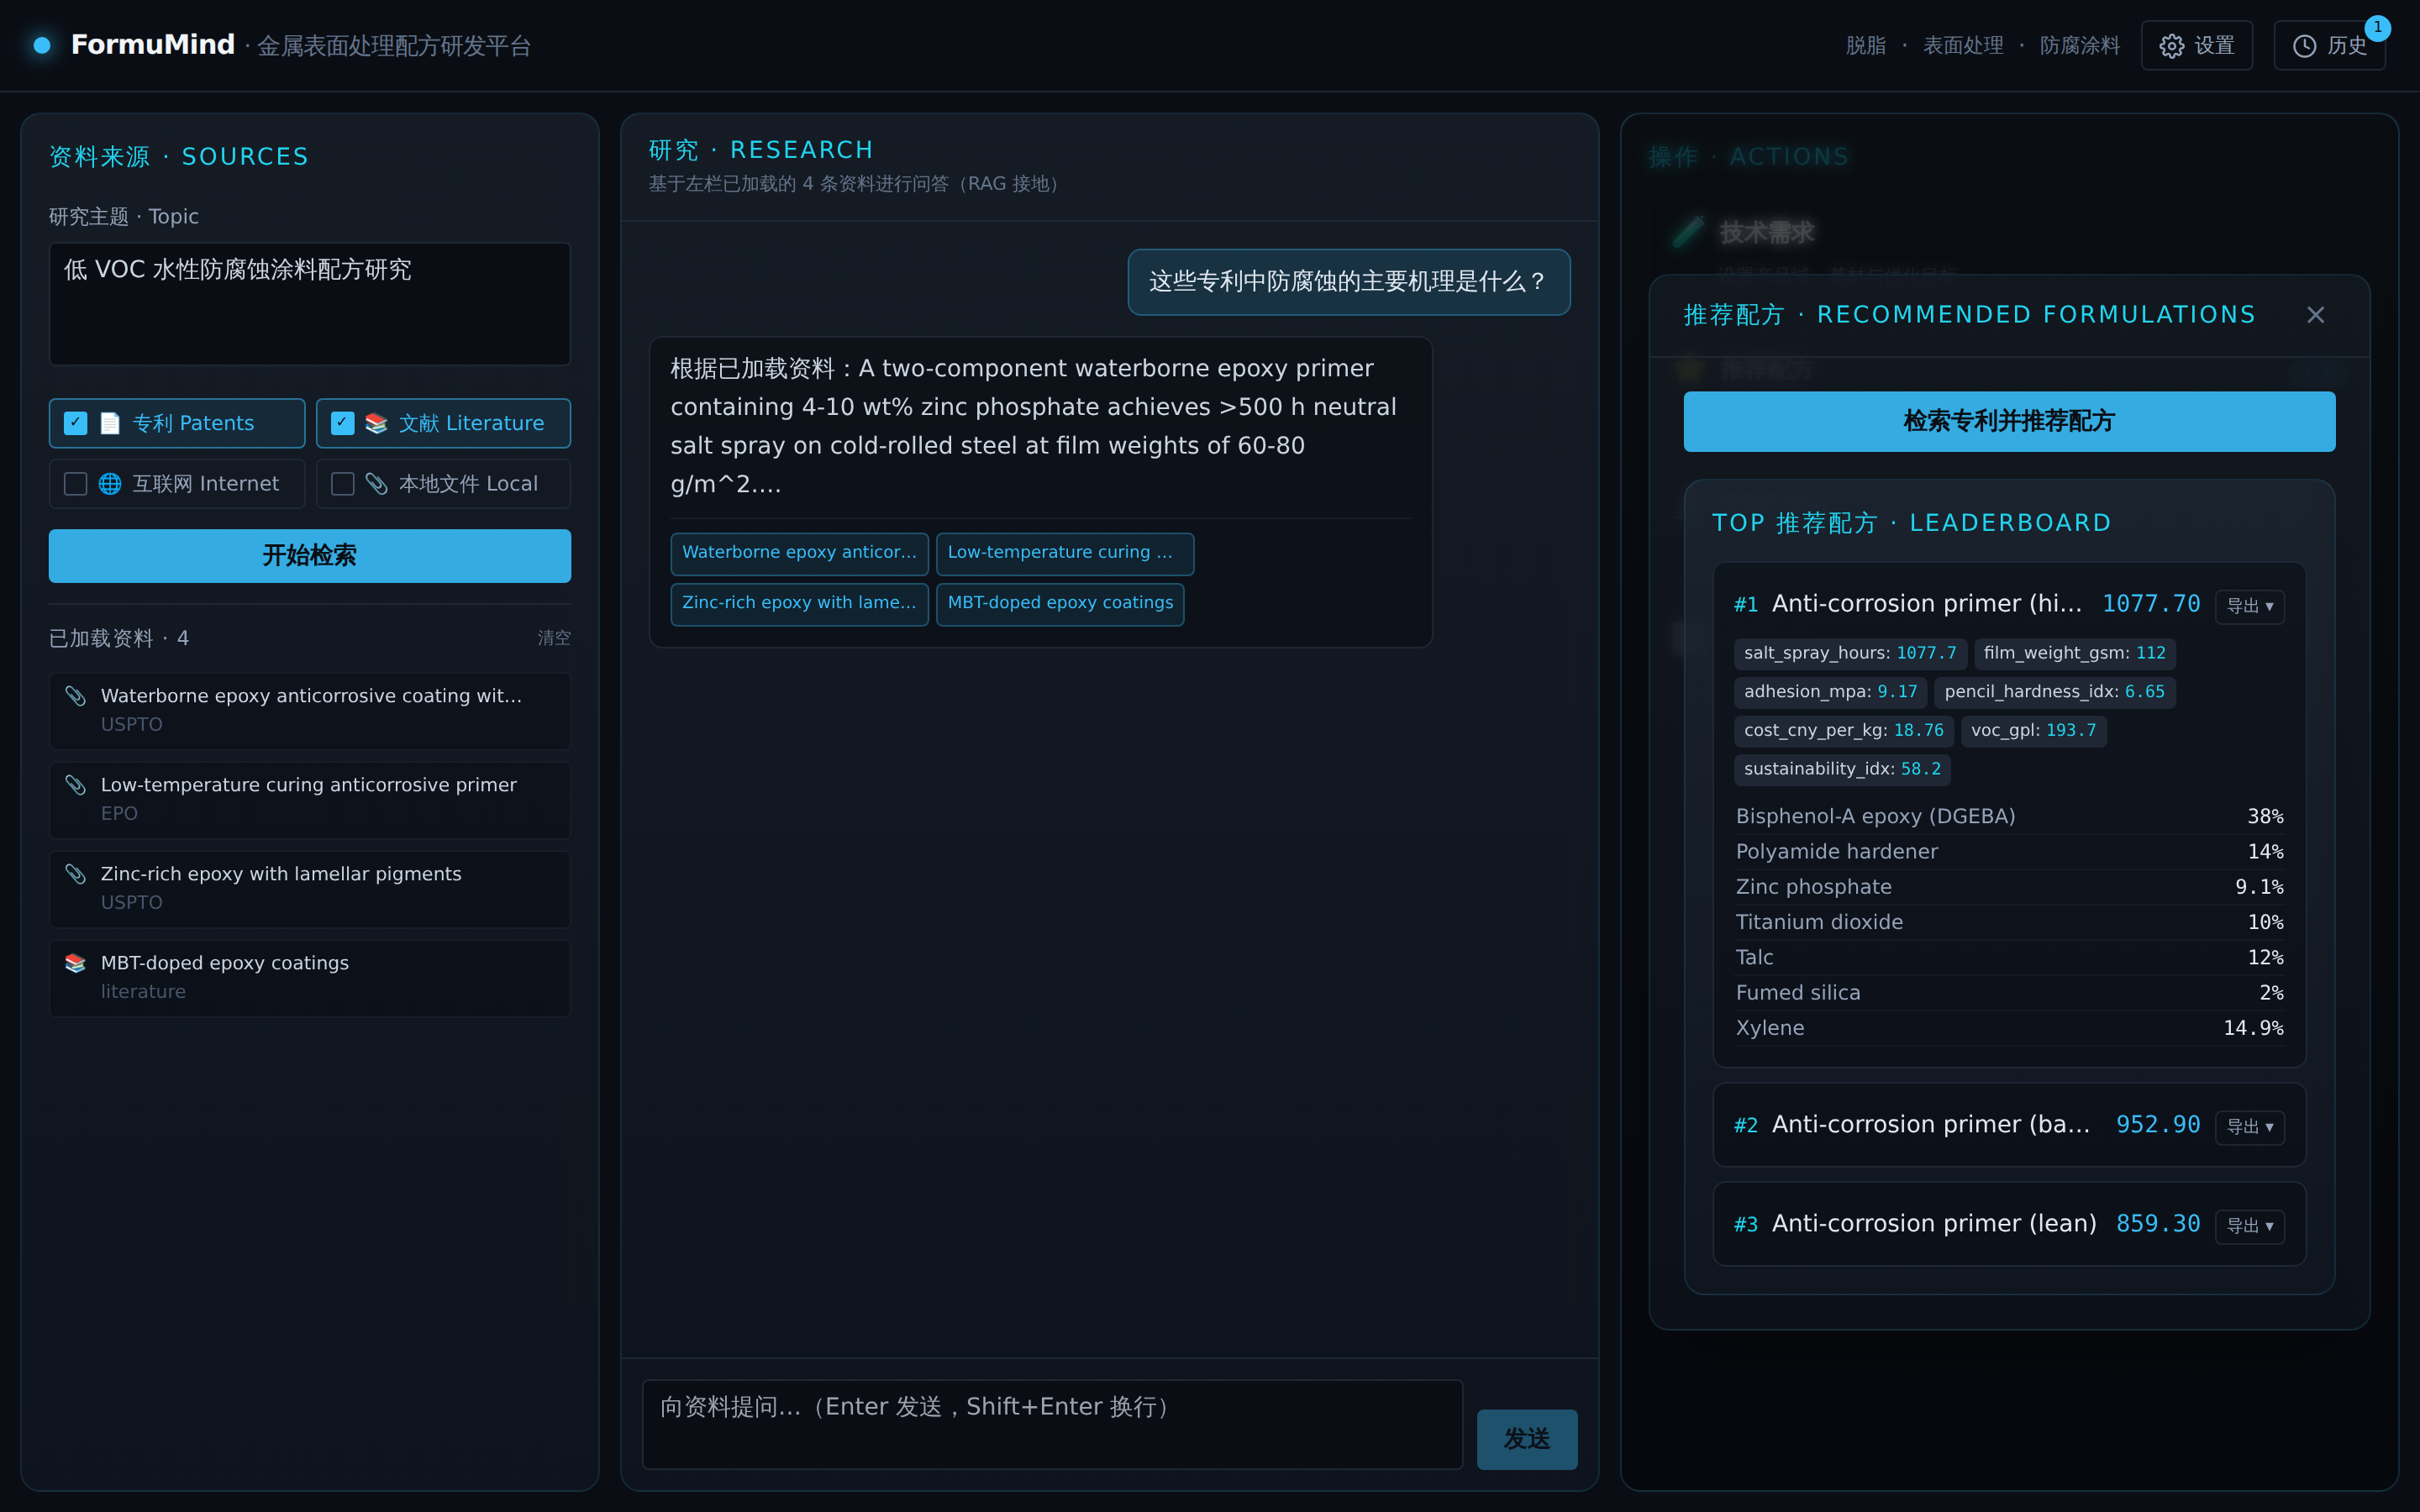
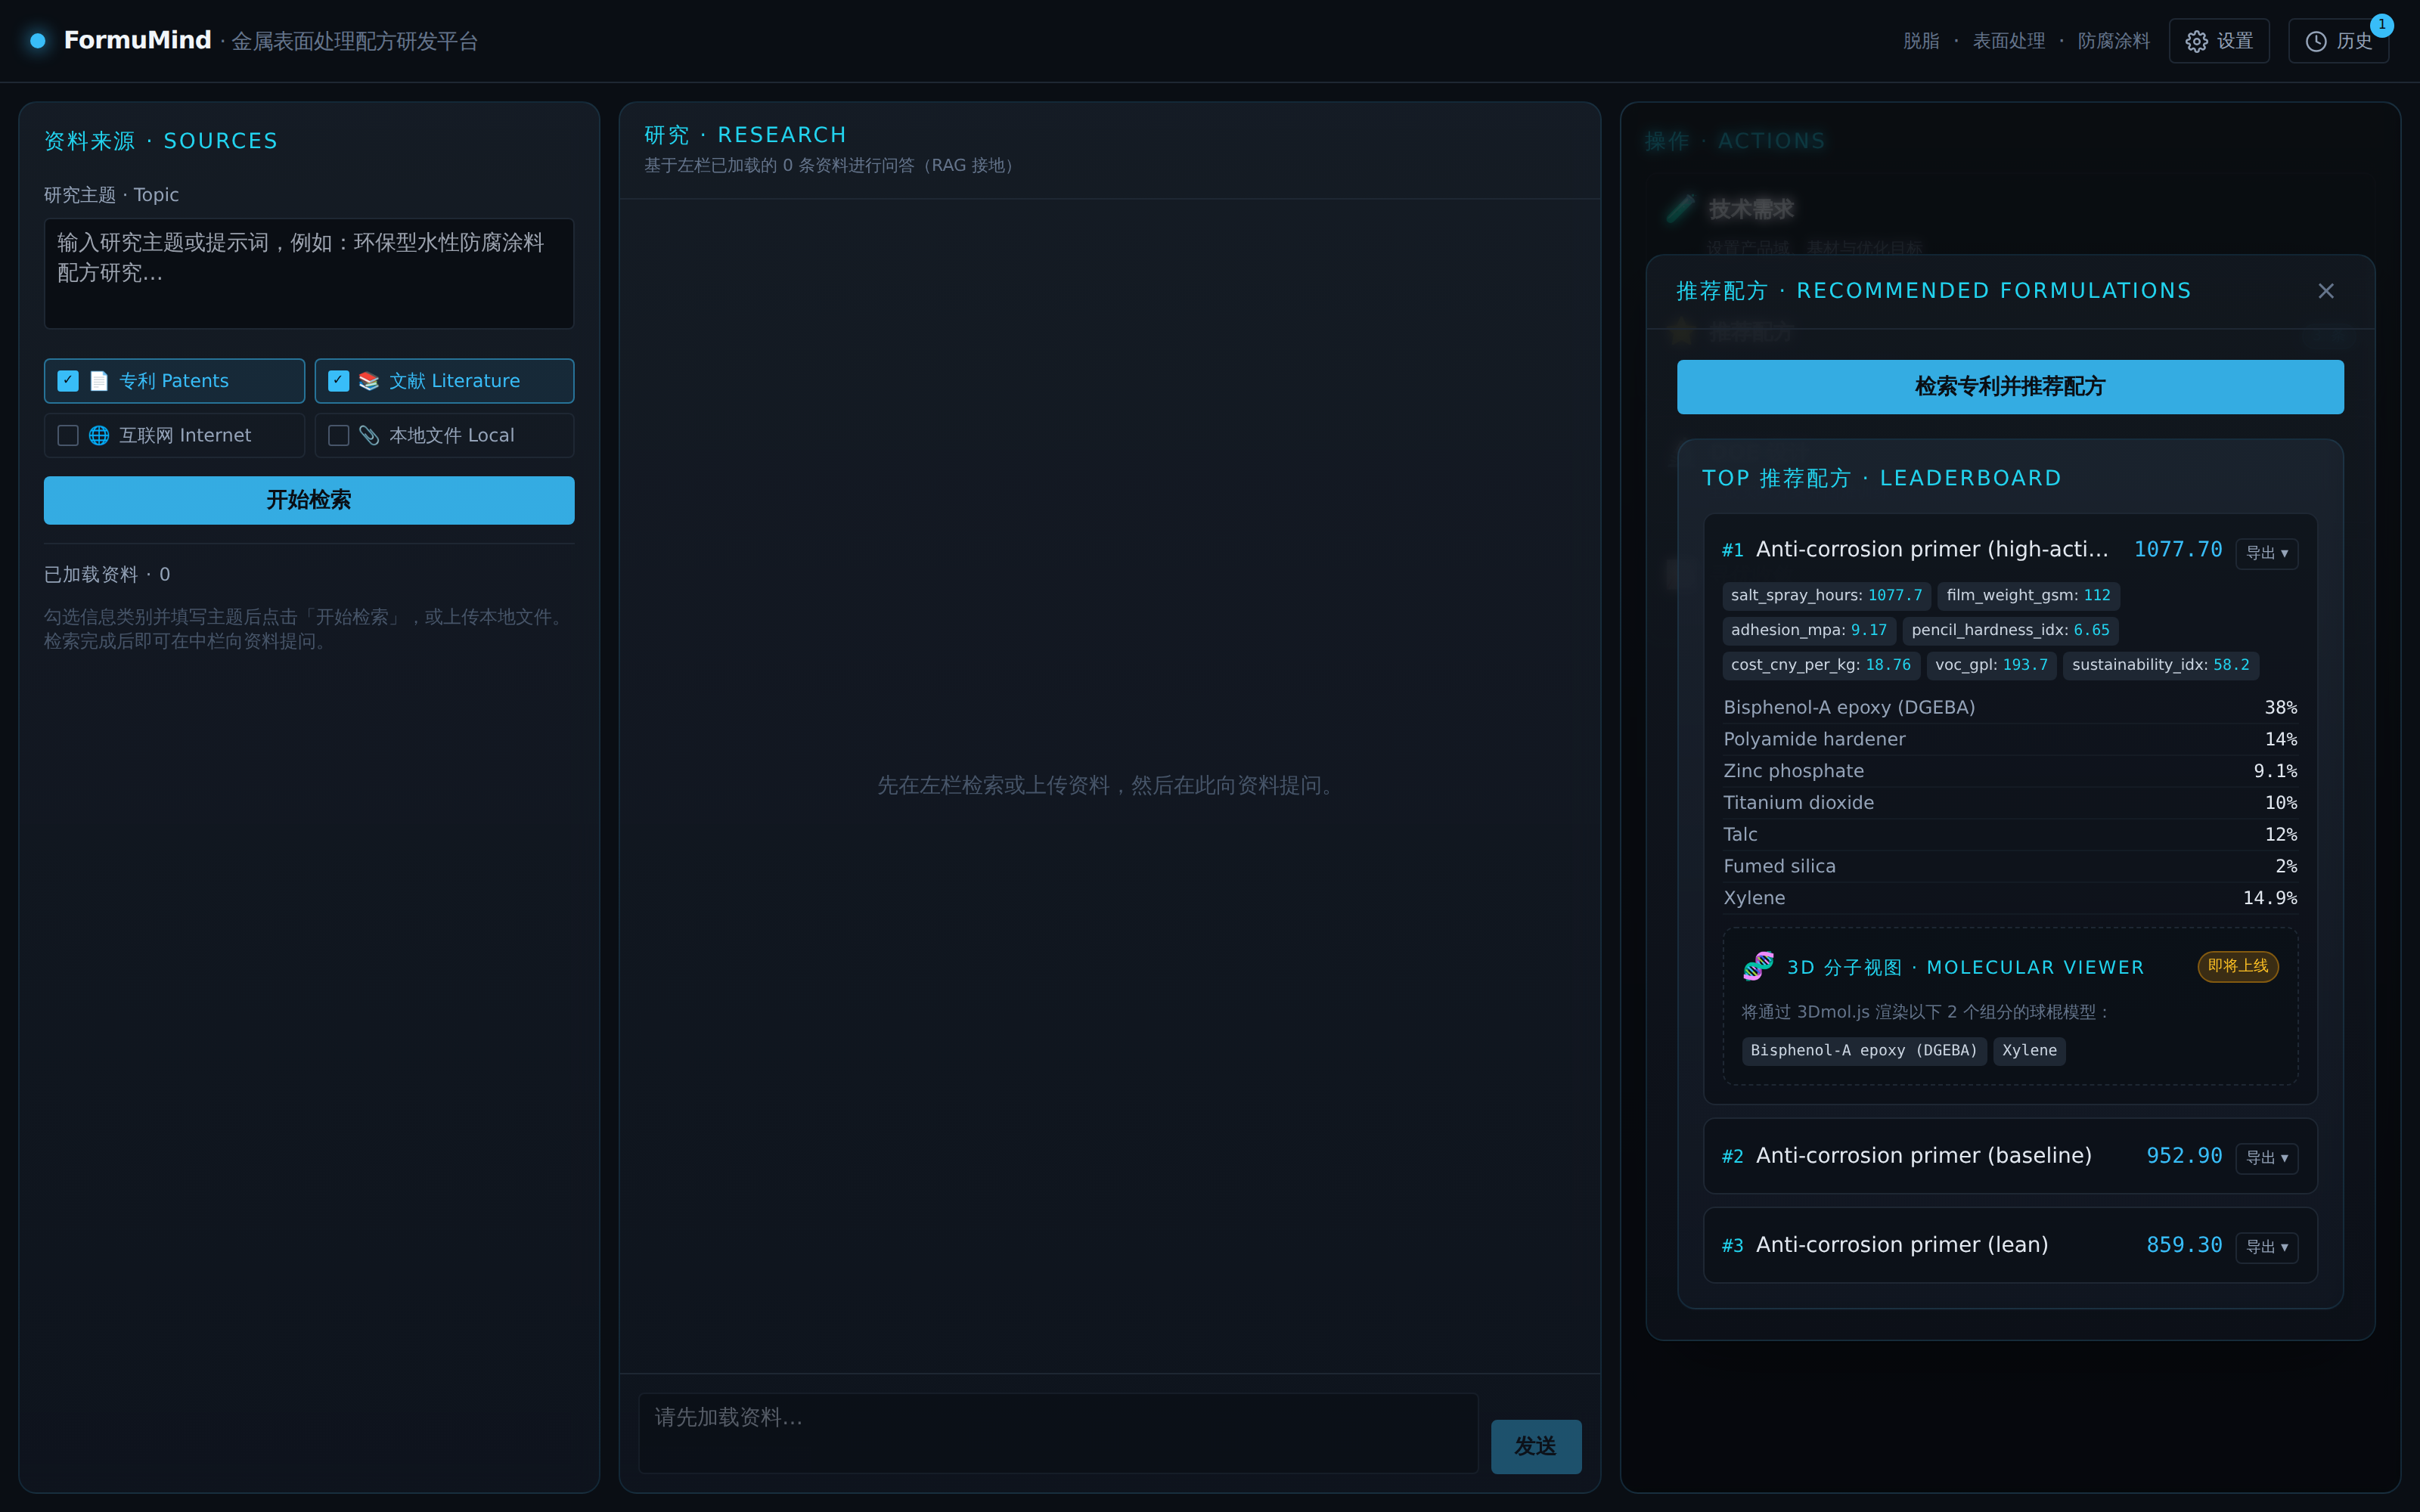
docs: document auto-detected engines + 3D molecular viewer (EN/CN), refresh recommend screenshot
- USER_GUIDE.md / 使用指南.md: new §5.8 (optional intelligence engines:
  Summit/Optuna tiering, ChemCrow/paper-qa routing, PubChem enrichment,
  thermo VOC) and §5.9 (reserved 3D molecular viewer); updated adapter table,
  cost/VOC note, config table (USE_CHEMCROW / ENRICH_COMPOUNDS), enabling-engines
  extras, 3D FAQ, and footer.
- QUICKSTART.md / 快速入门.md: recommend step now notes the 3D molecular-viewer
  panel; added an auto-detected-engines note to next steps.
- Regenerated docs/images/05-recommend.png showing the new MolViewer placeholder.

https://claude.ai/code/session_01UU7xK54833WZZhCQ2RY8mj

diff --git a/docs/USER_GUIDE.md b/docs/USER_GUIDE.md
@@ -72,8 +72,11 @@ it is installed.
 | Internet search | `duckduckgo-search` | (offline returns no extra hits) |
 | File ingestion | `markitdown` (PDF/DOCX/XLSX/PPTX/HTML/images…) → `pypdf`/`python-docx` | plain-text decoder |
 | RAG store | OpenNotebook pipeline | in-memory TF-IDF index |
-| Property prediction | RDKit + DeepChem/ChemBERTa | transparent empirical surrogate |
-| Optimization | Summit (Bayesian/TSEMO) | numpy UCB Bayesian optimizer |
+| Grounded Q&A | ChemCrow agent (chemistry questions) · paper-qa (semantic synthesis) | TF-IDF re-rank → configured LLM → snippet |
+| Property prediction | RDKit + DeepChem/ChemBERTa · MoLFormer (reserved) | transparent empirical surrogate |
+| VOC / density | `thermo` mass-weighted density | nominal 1.3 kg/L assumption |
+| Compound data | PubChemPy (SMILES / molar mass) | hand-curated raw-material library |
+| Optimization | Summit (Bayesian/TSEMO) → Optuna (NSGA-II/TPE, CPU) | numpy UCB Bayesian optimizer |
 | Stoichiometry | ChemFormula / RDKit | self-contained formula parser |
 | Cure / MD simulation | HTPolyNet · LUNAR · LAMMPS (Docker) | analytic approximation |
 
@@ -161,7 +164,11 @@ The platform will:
 - synthesize a mechanism explanation and research conversation.
 
 **Result**: the center shows mechanism + evidence + chat; the leaderboard shows
-the 3 recommended formulations.
+the 3 recommended formulations. Expand a card to see its ingredient table,
+predicted metrics with uncertainty, and the **3D molecular-viewer panel**
+(see §5.9).
+
+![Recommend · leaderboard with molecular viewer](./images/05-recommend.png)
 
 ### Step ② — run the optimization loop
 
@@ -223,7 +230,8 @@ All 26 raw materials in the knowledge base carry `price_cny_per_kg` and
 `voc_contrib` (volatile fraction, 0–1). Every prediction computes:
 
 - `cost_cny_per_kg` — mass-fraction-weighted formulation cost;
-- `voc_gpl` — VOC content (g/L, assuming density ~1.3 kg/L);
+- `voc_gpl` — VOC content (g/L); density defaults to ~1.3 kg/L but is computed
+  from a real mass-weighted mixture density when the `thermo` library is present;
 - `sustainability_idx` — sustainability index (0–100, penalizing high VOC and cost).
 
 When a formulation's VOC exceeds the requirement's `voc_limit_gpl`, the card
@@ -294,6 +302,38 @@ relevance into the left-column source list. The center-column chat then answers
 questions **grounded in those sources**: a TF-IDF re-rank selects the most
 relevant evidence, the LLM composes an answer, and the citations used are shown
 as chips under each reply.
+
+### 5.8 Optional intelligence engines (auto-detected)
+
+Beyond the LLM providers, FormuMind layers several specialist engines on top of
+the built-in fallbacks. Each is **auto-detected**: install its library and the
+adapter switches over with no code change; absent, the platform keeps using the
+deterministic offline path, so behaviour never breaks.
+
+- **Optimizer tiering** — the closed-loop optimizer auto-selects the best engine
+  installed: **Summit** (Bayesian/TSEMO, the `heavy` extra) → **Optuna**
+  (NSGA-II/TPE, CPU-only, the lightweight `optimize` extra) → the built-in numpy
+  UCB optimizer. The `engine` used is reported on the optimization result.
+- **Grounded-Q&A routing** — a chemistry-flavoured question (LogP, solubility,
+  toxicity, compatibility, reaction, structure…) is routed to the **ChemCrow**
+  agent when installed; other questions use **paper-qa** semantic synthesis with
+  page-level citations. Both fall back to the TF-IDF re-rank → configured LLM →
+  snippet path.
+- **Compound enrichment** — set `FORMUMIND_ENRICH_COMPOUNDS=true` and, with
+  **PubChemPy** installed, the platform backfills missing SMILES / molar-mass on
+  the raw-material library at startup (curated values always win).
+- **Physically-grounded VOC** — with **thermo** installed, `voc_gpl` is computed
+  from a real mass-weighted mixture density instead of the nominal 1.3 kg/L
+  assumption.
+
+### 5.9 3D molecular viewer (reserved)
+
+Each expanded leaderboard card carries a **3D molecular-viewer panel**. In this
+release it is a **placeholder + data contract**: it lists the formulation
+components that carry a SMILES string and notes that they will be rendered as
+ball-and-stick models via **3Dmol.js**. The full WebGL viewer (and the reserved
+**MoLFormer** embedding path for richer property prediction) ships in a later
+upgrade; the placeholder keeps the bundle lightweight today.
 
 ---
 
@@ -466,6 +506,8 @@ defaults.
 | `FORMUMIND_<PROVIDER>_API_KEY` | empty | API key, e.g. `FORMUMIND_ANTHROPIC_API_KEY`, `FORMUMIND_DEEPSEEK_API_KEY`; falls back to offline synthesis when unset |
 | `FORMUMIND_LLM_BASE_URL` | provider default | override the OpenAI-compatible base URL |
 | `FORMUMIND_SEARCH_LIMIT_PER_SOURCE` | `5` | max results fetched per source type |
+| `FORMUMIND_USE_CHEMCROW` | `true` | route chemistry questions to ChemCrow when installed |
+| `FORMUMIND_ENRICH_COMPOUNDS` | `false` | backfill SMILES/molar-mass via PubChem on startup (needs `intel` + network) |
 | `FORMUMIND_DB_URL` | `sqlite:///./data/formumind.db` | experiment database; can point at Postgres |
 | `FORMUMIND_REDIS_URL` | `redis://localhost:6379/0` | Celery broker |
 | `FORMUMIND_CELERY_EAGER` | `true` | run tasks in-process without a broker |
@@ -492,10 +534,11 @@ over automatically — no code change:
 
 ```bash
 pip install -e ".[llm]"          # Claude + OpenAI + Gemini SDKs (covers all 9 providers)
-pip install -e ".[science]"      # scipy, scikit-learn, RDKit, ChemFormula
-pip install -e ".[intel]"        # patent_client, paper-qa, arxiv, semanticscholar, duckduckgo-search
+pip install -e ".[science]"      # scipy, scikit-learn, RDKit, ChemFormula, thermo
+pip install -e ".[optimize]"     # optuna (CPU multi-objective optimizer, NSGA-II/TPE)
+pip install -e ".[intel]"        # patent_client, paper-qa, chemcrow, pubchempy, arxiv, semanticscholar, duckduckgo-search
 pip install -e ".[file_ingest]"  # markitdown, pypdf, python-docx (local file upload)
-pip install -e ".[heavy]"        # torch, deepchem, transformers, summit, ase
+pip install -e ".[heavy]"        # torch, deepchem, transformers (MoLFormer), summit, ase
 pip install -e ".[export]"       # openpyxl (XLSX export; CSV needs nothing)
 ```
 
@@ -503,7 +546,13 @@ After installing the `science` extra:
 - property prediction adds RDKit molecular descriptor features;
 - model training upgrades from numpy ridge to scikit-learn random forest (with
   ensemble uncertainty);
-- stoichiometry validation switches to ChemFormula for exact computation.
+- stoichiometry validation switches to ChemFormula for exact computation;
+- `thermo` grounds the VOC g/L calculation in a real mixture density.
+
+The optimizer auto-selects the strongest engine installed (**Summit** →
+**Optuna** → numpy), and grounded Q&A routes chemistry questions to **ChemCrow**
+and others to **paper-qa**, both falling back to TF-IDF + the configured LLM
+(see §5.8). None of these are required — each lights up automatically.
 
 ---
 
@@ -519,9 +568,11 @@ lab-validated specifications. Feed real DOE results back so data-driven models
 progressively supersede the empirical prior.
 
 **Q: Where is the 3D simulation?**
-This version keeps 3D visualization as a skeleton + data contract only; real
-OVITO/3Dmol trajectory rendering needs HTPolyNet/LAMMPS (Docker `heavy`
-profile). The right column currently shows the optimization convergence chart.
+Each leaderboard card now has a **3D molecular-viewer panel**, currently a
+placeholder + data contract (it lists the SMILES-bearing components to be drawn
+via 3Dmol.js). Full WebGL rendering — and reactive-MD trajectory rendering via
+HTPolyNet/LAMMPS (Docker `heavy` profile) — ship in a later upgrade. The
+optimization convergence chart is shown in the Optimization modal.
 
 **Q: Is patent retrieval a live online crawl?**
 By default it uses an offline seed corpus per domain. Adapters for real
@@ -538,6 +589,9 @@ Experiment data is persisted in the backend SQLite/Postgres database.
 > redesign (Sources / Research / Actions), multi-LLM support across nine
 > providers with an in-app Settings dialog, multi-source research (patents /
 > literature / internet), local file upload with markitdown, and RAG-grounded
-> Q&A — on top of the v0.2 feature set (multi-objective optimization,
-> cost/sustainability, confidence intervals, DOE import/export, SQL persistence,
-> formula export, convergence chart, model dashboard, and session history).
+> Q&A — plus auto-detected intelligence engines (Summit/Optuna optimization,
+> ChemCrow/paper-qa Q&A, PubChem enrichment, thermo-grounded VOC) and a reserved
+> 3D molecular viewer — on top of the v0.2 feature set (multi-objective
+> optimization, cost/sustainability, confidence intervals, DOE import/export,
+> SQL persistence, formula export, convergence chart, model dashboard, and
+> session history).

diff --git a/docs/QUICKSTART.md b/docs/QUICKSTART.md
@@ -87,9 +87,11 @@ offline rule engine.
 Open **⭐ Recommend** (right column) and click **research patents & recommend
 formulations**. The Top-N leaderboard appears — each card shows the ingredient
 table and predicted metrics, including the auto-computed `cost_cny_per_kg`,
-`voc_gpl`, and `sustainability_idx` (with ± uncertainty).
+`voc_gpl`, and `sustainability_idx` (with ± uncertainty). Expand a card and a
+**3D molecular-viewer panel** lists the SMILES-bearing components to be rendered
+via 3Dmol.js (a reserved placeholder in this release).
 
-![Recommend · leaderboard](./images/05-recommend.png)
+![Recommend · leaderboard with molecular viewer](./images/05-recommend.png)
 
 ---
 
@@ -134,6 +136,10 @@ salt-spray, cost and sustainability simultaneously.
 
 - Custom objective weights, batch feedback, multi-LLM configuration, wiring up
   the real engines? See the **[full User Guide](./USER_GUIDE.md)**.
+- Want stronger engines? They auto-detect on install — `pip install -e ".[optimize]"`
+  for the Optuna optimizer, `".[intel]"` for ChemCrow/paper-qa Q&A and PubChem
+  enrichment, `".[science]"` for thermo-grounded VOC. Nothing is required; each
+  lights up automatically.
 - Interactive API docs: start the backend and visit
   **http://localhost:8000/docs**.
 

diff --git a/docs/快速入门.md b/docs/快速入门.md
@@ -63,9 +63,9 @@ FormuMind v0.3 采用仿 NotebookLM 的三栏布局，将**输入 → 研究 →
 
 ## 第 4 步 · 推荐配方
 
-打开右栏 **⭐ 推荐配方**，点击**检索专利并推荐配方**。Top-N 排行榜随即出现 —— 每个配方卡显示成分表与预测指标，包含自动算出的 `cost_cny_per_kg`（成本）、`voc_gpl`（VOC）、`sustainability_idx`（可持续性指数，带 ± 不确定度）。
+打开右栏 **⭐ 推荐配方**，点击**检索专利并推荐配方**。Top-N 排行榜随即出现 —— 每个配方卡显示成分表与预测指标，包含自动算出的 `cost_cny_per_kg`（成本）、`voc_gpl`（VOC）、`sustainability_idx`（可持续性指数，带 ± 不确定度）。展开配方卡可见 **3D 分子视图面板**，列出待用 3Dmol.js 渲染的带 SMILES 组分（本版本为预留占位）。
 
-![推荐配方 · 排行榜](./images/05-recommend.png)
+![推荐配方 · 含分子视图](./images/05-recommend.png)
 
 ---
 
@@ -97,6 +97,7 @@ FormuMind v0.3 采用仿 NotebookLM 的三栏布局，将**输入 → 研究 →
 ## 下一步
 
 - 想自定义多目标权重、批量回灌、配置多大模型、对接真实引擎？见 **[完整使用指南](./使用指南.md)**。
+- 想要更强的引擎？安装即自动检测：`pip install -e ".[optimize]"` 启用 Optuna 寻优器、`".[intel]"` 启用 ChemCrow/paper-qa 问答与 PubChem 富集、`".[science]"` 启用 thermo 物性接地。以上全部可选，安装后自动点亮。
 - 交互式 API 文档：后端启动后访问 **http://localhost:8000/docs**。
 
 > 离线产出的性能数值为工程合理的筛选估算值，非实验室验证规格。通过 DOE 回灌真实数据，预测会越来越准。